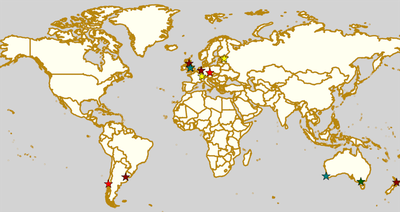
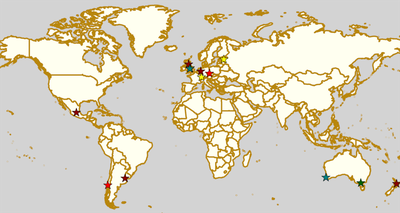
updated Mexico entry for new Playoffs 1 info

diff --git a/output/posts/highlights/2019/weekendhighlights-27072019/index.html b/output/posts/highlights/2019/weekendhighlights-27072019/index.html
@@ -196,6 +196,25 @@ NTRD are also sponsors this year). All donations are going to an LGBT charity to
 <p><a class="reference external" href="https://www.instagram.com/rollerderbyvaldivia/">Roller Derby Valdivia</a> host a wintery evening of entertainment, to raise funds to allow Roller Derby Valdivia to particpate as part of the Chilean National Team.  This event, as well as providing food and games, also serves as an introduction to the sport for those interested.</p>
 <p>Event starts: 1500 Sunday</p>
 <p>Venue: Escuela Alemania, Los Pelues, Valdivia, Chile</p>
+</div>
+<div class="section" id="sat-sun-queretaro-mexico">
+<h2>Sat-Sun: Queretaro, Mexico</h2>
+<p><a class="reference external" href="https://www.facebook.com/events/2310791378997633/">[FACEBOOK LINK]</a>
+<a class="reference external" href="pending">[FTS LINK]</a></p>
+<p><a class="reference external" href="https://www.instagram.com/rockcityrd/">Rock City Roller Derby</a> and Crows Roller Derby host "Rock City Deathmatch Vol 2", the return of the Queretaro hosted mini-tournament.
+This is an MRDA-gender policy tournament, featuring co-hosts Crows against 3 other teams in a 6-game round robin.</p>
+<ul class="simple">
+<li>Teams:<ul>
+<li>Crows Roller Derby (Queretaro M)</li>
+<li>Disorder RD (CDMX M)</li>
+<li>Minotauros (CDMX M)</li>
+<li>Wheels of Mayhem (Baja California M)</li>
+</ul>
+</li>
+</ul>
+<p><em>FTS entries pending publication of a schedule of bouts</em></p>
+<p>Event starts: 1200 Saturday</p>
+<p>Venue: Facultad de Ciencias Naturales UAQ, Avenida de las Ciencias, Queretaro, Mexico</p>
 <!-- Sat-Sun:
 - - - - - - - - - - - - - - - - - - - - - - - - - - - - - - - -
 

diff --git a/output/posts/2019/07/mexico2019/index.html b/output/posts/2019/07/mexico2019/index.html
@@ -81,6 +81,8 @@ As a result, if we were going to bet on upsets, it would be from the two former 
 <div class="figure">
 <img alt="Mexico Playoffs flyer for 2nd Playoff in Mexico City." src="../../../../images/2019/07/MexicoPlayoffs2.jpg">
 </div>
+<p><em>edited to add: the first Playoffs have now gained an event, and an FTS entry [25/Jul/2019]</em>
+Playoffs 1, Chihuahua [<a class="reference external" href="https://www.facebook.com/events/338466360398384/">Facebook Event</a>] [<a class="reference external" href="http://flattrackstats.com/tournaments/110982/overview">FTS entry</a>]</p>
 <hr class="docutils">
 <p>Division 2, being smaller, retains the final fixture for its determination: this year hosted in Guanajuato, near León, in early October.</p>
 </div>

diff --git a/output/posts/highlights/2019/weekendhighlights-27072019/index.rst b/output/posts/highlights/2019/weekendhighlights-27072019/index.rst
@@ -276,6 +276,35 @@ Event starts: 1500 Sunday
 
 Venue: Escuela Alemania, Los Pelues, Valdivia, Chile
 
+
+Sat-Sun: Queretaro, Mexico
+--------------------------------
+
+`[FACEBOOK LINK]`__
+`[FTS LINK]`__
+
+.. __: https://www.facebook.com/events/2310791378997633/
+.. __: pending
+
+
+`Rock City Roller Derby`_ and Crows Roller Derby host "Rock City Deathmatch Vol 2", the return of the Queretaro hosted mini-tournament.
+This is an MRDA-gender policy tournament, featuring co-hosts Crows against 3 other teams in a 6-game round robin.
+
+.. _Rock City Roller Derby: https://www.instagram.com/rockcityrd/
+
+- Teams:
+
+  - Crows Roller Derby (Queretaro M)
+  - Disorder RD (CDMX M)
+  - Minotauros (CDMX M)
+  - Wheels of Mayhem (Baja California M)
+
+*FTS entries pending publication of a schedule of bouts*
+
+Event starts: 1200 Saturday
+
+Venue: Facultad de Ciencias Naturales UAQ, Avenida de las Ciencias, Queretaro, Mexico
+
 ..
   Sat-Sun:
   --------------------------------

diff --git a/output/posts/2019/07/mexico2019/index.rst b/output/posts/2019/07/mexico2019/index.rst
@@ -68,6 +68,12 @@ At present, only the second playoffs has a `Facebook Event`_, the others pending
 .. figure:: /images/2019/07/MexicoPlayoffs2.jpg
   :alt: Mexico Playoffs flyer for 2nd Playoff in Mexico City.
 
+*edited to add: the first Playoffs have now gained an event, and an FTS entry [25/Jul/2019]*
+Playoffs 1, Chihuahua [`Facebook Event`__] [`FTS entry`__]
+
+.. __: https://www.facebook.com/events/338466360398384/
+.. __: http://flattrackstats.com/tournaments/110982/overview
+
 ======
 
 Division 2, being smaller, retains the final fixture for its determination: this year hosted in Guanajuato, near León, in early October.

diff --git a/posts/2019/07/torneomexico2019.rst b/posts/2019/07/torneomexico2019.rst
@@ -68,6 +68,12 @@ At present, only the second playoffs has a `Facebook Event`_, the others pending
 .. figure:: /images/2019/07/MexicoPlayoffs2.jpg
   :alt: Mexico Playoffs flyer for 2nd Playoff in Mexico City.
 
+*edited to add: the first Playoffs have now gained an event, and an FTS entry [25/Jul/2019]*
+Playoffs 1, Chihuahua [`Facebook Event`__] [`FTS entry`__]
+
+.. __: https://www.facebook.com/events/338466360398384/
+.. __: http://flattrackstats.com/tournaments/110982/overview
+
 ======
 
 Division 2, being smaller, retains the final fixture for its determination: this year hosted in Guanajuato, near León, in early October.
